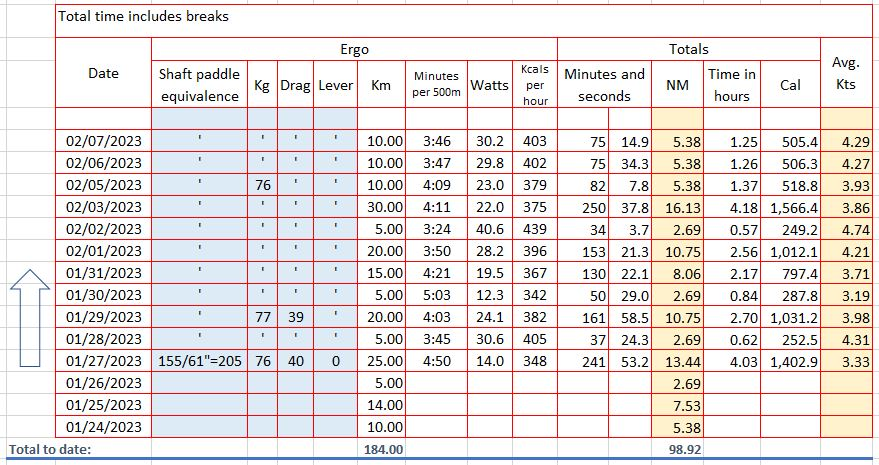
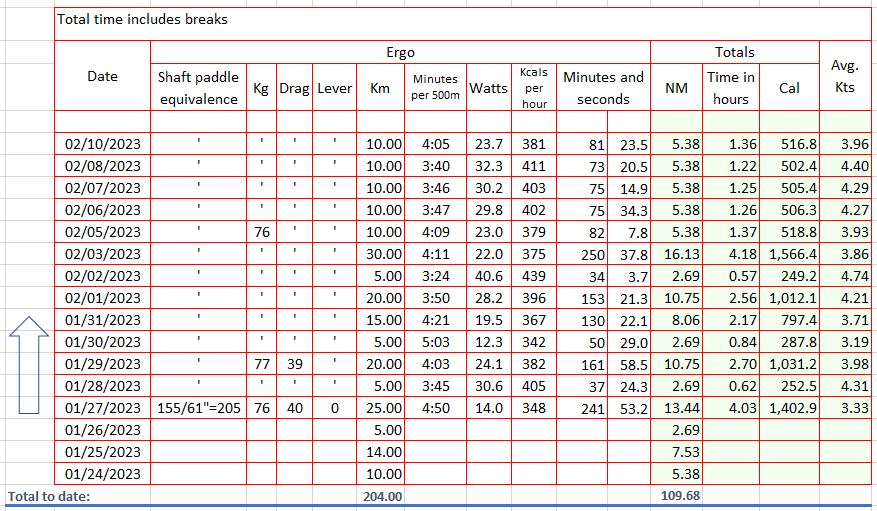
updates

diff --git a/content/planning/the-provisions.md b/content/planning/the-provisions.md
@@ -9,7 +9,7 @@ draft: false
 >
 > Same as with the equipment, the aim is to be self-sufficient for the entire trip, and only the water should need replenishing.
 
-Based on the dry-run, in perfect conditions, for a 9-10h paddle a day I would need about 3k calories. Add to that 2.5k for the male body, it seems that 5.5k calories a day would be the minimum I would need during this trip.
+Based on the dry-run, in perfect conditions, for a 9-10h paddle a day I would need about 3k calories. Add to that 2.5k for the average male body, it seems that 5.5k calories a day would be the minimum I would need during this trip.
 
 TODO
 

diff --git a/content/dry-run/log.md b/content/dry-run/log.md
@@ -1,14 +1,14 @@
 ---
-title: "Around the island with Xeon Kayak Ergometer"
+title: "PEI-go-round with Xeon Kayak Ergometer"
 date: 2023-01-21
 draft: false
 ---
 
-> February 7, 2023
+> February 10, 2023
 
-![February 7](/img/feb7.JPG)
+![February 10](/img/feb10.JPG)
 {{< center >}}
-99 nautical miles, or 184 Km
+109.6 nautical miles, or 204 Km
 {{< /center >}}
 
 ![Stats](/img/Stats.JPG)
